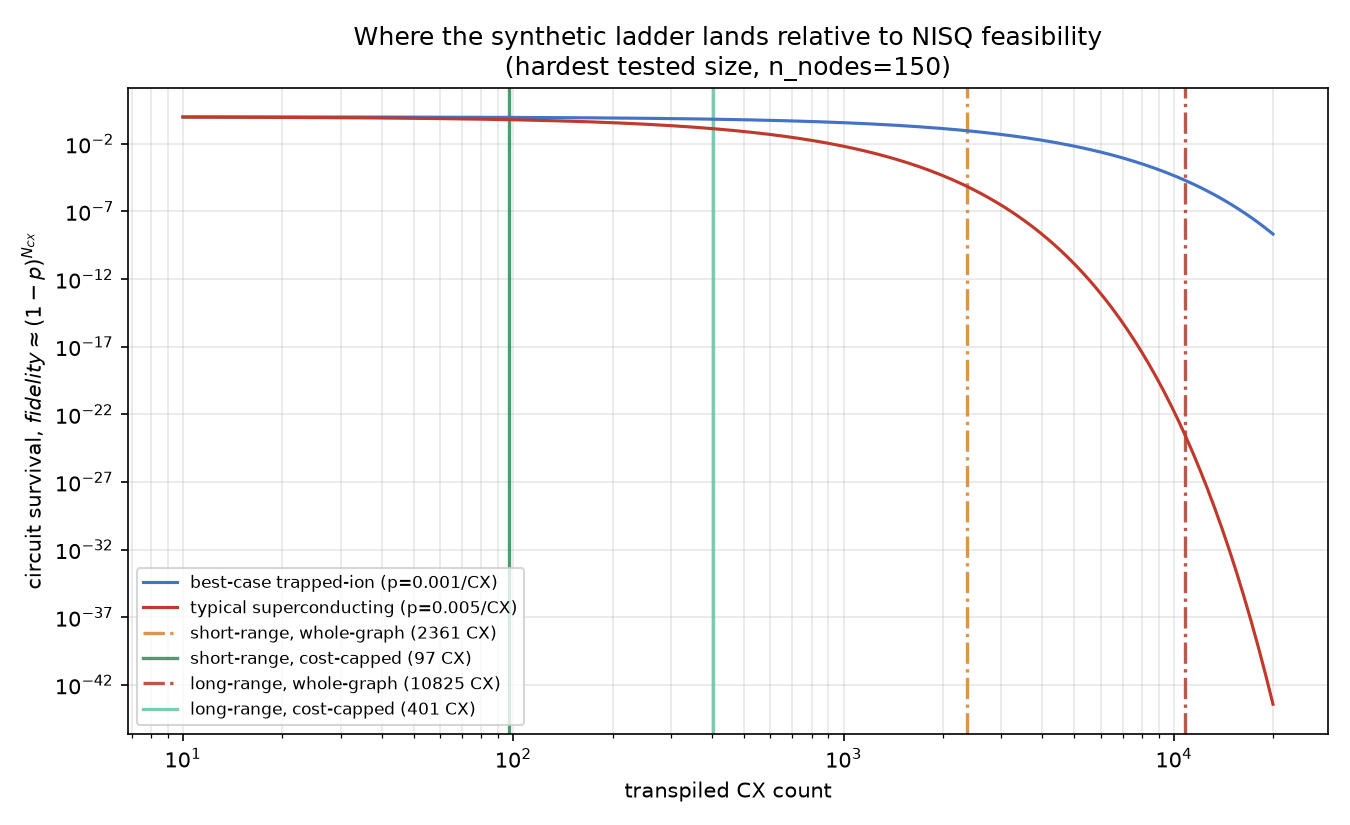
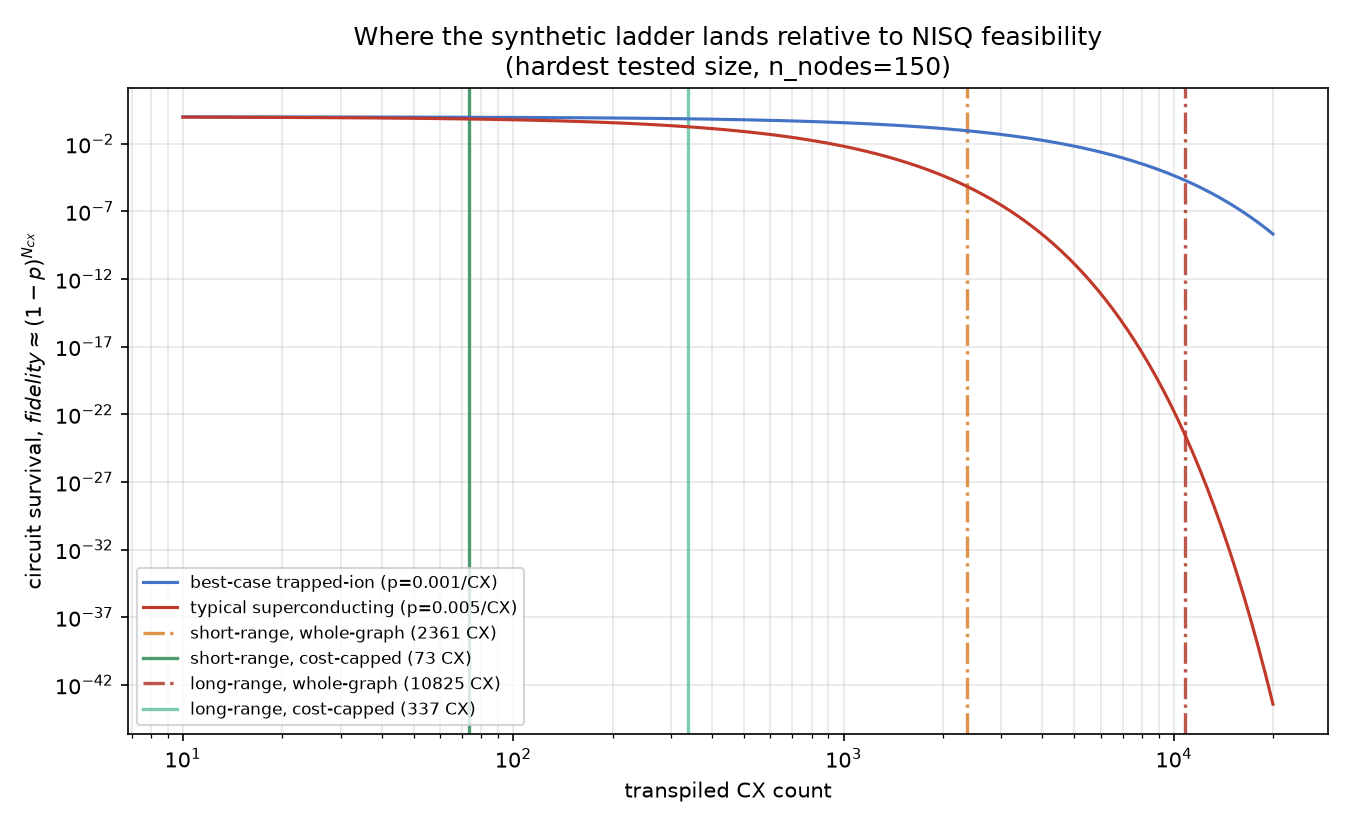
Fix two real gaps in cost-capped decomposition; real data now as clean as synthetic
Prompted by two direct questions -- is CIGRE MV's 274 CX actually the
smallest possible, and why does IEEE33's cost-capped result cost more
than plain decomposition -- that turned up two genuine algorithm gaps in
decompose_to_threshold, not just measurement artifacts:

1. The algorithm accepted the first cost_alpha (0.01) that met threshold
   and never tried to do better. On CIGRE MV that left a real win on the
   table: cost_alpha=0.2 gives 64 CX at PERFECT safety (1.0 mean feasible
   mass) vs. the reported 274 CX at 0.985. `_best_under_threshold` now
   sweeps FALLBACK_COST_ALPHAS and keeps the cheapest passing result, at
   every leaf.

2. The algorithm jumped straight to a halved target_zone_size the instant
   a graph failed to meet threshold, meaning the granularity flat
   decomposition uses directly (target_zone_size=8) was never tried once
   decomposition was needed at all. On IEEE33 this produced a harder
   4-node assembly-of-assembly core (508 CX) than the one un-halved
   target_zone_size=8 produces (132 CX, same size, different graph). A
   first attempt at "always try the current size before halving" was
   checked against the full synthetic ladder before being kept, not just
   the one instance that motivated it -- and that check caught a real
   regression: 12 of 30 seeds got WORSE, up to 15x, since shrinking zones
   helps or hurts depending on graph-specific density, not a fixed rule.
[…]

Changed region(s): [[0.3422, 0.1515, 0.4044, 0.697], [0.4978, 0.1212, 0.5289, 0.8788], [0.3111, 0.7879, 0.3422, 0.8182]]

diff --git a/scripts/run_cost_capped_decomposition.py b/scripts/run_cost_capped_decomposition.py
@@ -9,14 +9,45 @@ nothing in the earlier design re-acts to that after the fact.
 
 Build each subproblem, TRANSPILE it, and check its real CX cost
 directly. If it's already under threshold, stop -- it's a leaf. If not,
-partition IT further (same `zone_decomposition` machinery, at a smaller
-`target_zone_size`) and recurse on each of ITS zones + assembly. Falls
-back to raising `cost_alpha` (trading safety for cost, `run_cost_aware_scaling_ladder_aggressive.py`'s
+partition IT further (same `zone_decomposition` machinery) and recurse on
+each of ITS zones + assembly. Falls back to raising `cost_alpha` (trading
+safety for cost, `run_cost_aware_scaling_ladder_aggressive.py`'s
 mechanism, but bounded here -- never past the point of inertness, see
 that script's own findings) only when a subproblem is too small to
 partition further (`n_nodes <= MIN_PARTITION_SIZE`) and is STILL over
 threshold -- a graph that small has no more structure left to exploit,
 only cost pressure.
+
+## Two refinements, found by asking "is this actually the best we can do?"
+of the real-network results (not just "does it meet the threshold")
+
+1. **Don't stop at the first `cost_alpha` that passes.** The original
+   version tried only 0.01 and accepted it the instant it met threshold.
+   On CIGRE MV that gave 274 CX at 0.985 mean feasible mass -- but
+   `cost_alpha=0.2` gives 64 CX at a PERFECT 1.0, strictly better in both
+   dimensions, simply never tried because 0.01 already "worked."
+   `_best_under_threshold` now sweeps all of `FALLBACK_COST_ALPHAS` and
+   keeps the cheapest passing result, at every leaf, not just the
+   irreducible-fallback ones.
+2. **Try more than one granularity, keep whichever total is cheaper.** The
+   original version always jumped straight to `target_zone_size // 2` the
+   instant a graph failed to meet threshold, meaning the granularity this
+   repo's own flat decomposition uses directly (`target_zone_size=8`) was
+   never tried once decomposition was needed at all -- only its half. On
+   IEEE33 this mattered a lot: halving immediately produced a finer,
+   HARDER-to-condition 4-node assembly-of-assembly core (508 CX) than the
+   one un-halved `target_zone_size=8` produces (132 CX) -- same size,
+   different specific graph, because which zones get contracted together
+   differs. A first attempt just swapped the rule to "always try the
+   un-halved size first" -- checked against the FULL synthetic ladder, not
+   just the two real networks, that made 12 of 30 seeds WORSE (up to 15x),
+   because shrinking zones sometimes helps and sometimes hurts depending
+   on where a graph's real density sits -- there's no universally-better
+   fixed rule. `_try_granularity` now tries BOTH the current
+   `target_zone_size` and its half, fully recurses each, and
+   `decompose_to_threshold` keeps whichever total is actually cheaper --
+   the same "measure, don't guess" discipline this whole script is built
+   on, applied to the granularity choice itself.
 
 Writes results/cost_capped_decomposition_results.csv (per condition,
 size, seed) and _summary.csv (whether every leaf actually met the
@@ -90,45 +121,77 @@ def _build_and_measure(graph, seed: int, cost_alpha: float):
     return construction, cx, tqc.depth(), masses
 
 
+def _best_under_threshold(graph, seed: int):
+    """Sweep FALLBACK_COST_ALPHAS and keep the CHEAPEST result that still
+    meets CX_THRESHOLD -- not just the first one that does. The original
+    version stopped at cost_alpha=0.01 the instant it passed, which left
+    real headroom on the table: on CIGRE MV, 0.01 gives 274 CX at 0.985
+    mean feasible mass, but 0.2 gives 64 CX at a PERFECT 1.0 -- cheaper
+    and safer, simply never tried because 0.01 already "worked." If
+    nothing meets the threshold, returns the cheapest attempt anyway (met=False)."""
+    best = None
+    met_any = False
+    for alpha in FALLBACK_COST_ALPHAS:
+        construction, cx, circ_depth, masses = _build_and_measure(graph, seed, cost_alpha=alpha)
+        if cx <= CX_THRESHOLD:
+            met_any = True
+            if best is None or cx < best[1]:
+                best = (construction, cx, circ_depth, masses)
+        elif best is None:
+            best = (construction, cx, circ_depth, masses)
+    return (*best, met_any)
+
+
 def decompose_to_threshold(graph, seed: int, target_zone_size: int = BASE_TARGET_ZONE_SIZE, depth: int = 0) -> dict:
     """Returns dict(cx, depth, masses, n_leaves, max_leaf_cx, all_leaves_met_threshold, max_depth_reached)."""
     construction, cx, circ_depth, masses = _build_and_measure(graph, seed, cost_alpha=0.01)
 
     if cx <= CX_THRESHOLD or graph.n_nodes <= MIN_PARTITION_SIZE or depth >= MAX_DEPTH:
-        met = cx <= CX_THRESHOLD
-        if not met and graph.n_nodes <= MIN_PARTITION_SIZE:
-            # Fallback: too small to split further, still over threshold --
-            # escalate cost_alpha (accepting more leakage) until it fits, or
-            # we run out of escalation levels.
-            for alpha in FALLBACK_COST_ALPHAS:
-                construction, cx, circ_depth, masses = _build_and_measure(graph, seed, cost_alpha=alpha)
-                if cx <= CX_THRESHOLD:
-                    met = True
-                    break
+        # Whether we're here because 0.01 already fits, or because we're
+        # forced to stop splitting regardless of cost: sweep for the
+        # cheapest cost_alpha that meets the threshold rather than
+        # settling for whatever the first one gave.
+        construction, cx, circ_depth, masses, met = _best_under_threshold(graph, seed)
         return dict(cx=cx, depth=circ_depth, masses=masses, n_leaves=1,
                     max_leaf_cx=cx, all_leaves_met_threshold=met, max_depth_reached=depth)
 
-    # Still over threshold and splittable: partition further, at a SMALLER
-    # target_zone_size (halved, floor at MIN_TARGET_ZONE_SIZE) -- same
-    # density-driven reasoning as the hierarchical assembly-graph recursion:
-    # a subproblem that's still expensive at the current granularity needs a
-    # finer split, not the same one repeated.
-    next_target = max(MIN_TARGET_ZONE_SIZE, target_zone_size // 2)
-    zone_of = partition_zones_by_size(graph, next_target)
+    # Still over threshold and splittable: which granularity to split at is
+    # genuinely graph-dependent, not a fixed rule. A first attempt at
+    # "always try the current target_zone_size before halving" looked
+    # right on IEEE33 (matching flat decomposition's own 4-zone split,
+    # 508 -> 132 CX) but, checked against the full synthetic ladder,
+    # made 12 of 30 seeds WORSE (up to 15x) -- shrinking zones sometimes
+    # helps and sometimes hurts depending on where the real density sits,
+    # exactly as this repo's own hierarchical-decomposition findings
+    # already say elsewhere. So: try BOTH the current target_zone_size and
+    # its half, fully recurse each, and keep whichever total is actually
+    # cheaper -- measure, don't guess, applied to the granularity choice
+    # itself, not just to whether a given attempt meets threshold.
+    candidates = sorted({target_zone_size, max(MIN_TARGET_ZONE_SIZE, target_zone_size // 2)}, reverse=True)
+    results = [r for r in (_try_granularity(graph, seed, size, depth) for size in candidates) if r is not None]
+
+    if not results:
+        # No candidate granularity could even produce a real split (graph
+        # too small/dense to divide at any tried size) -- irreducible,
+        # same cost_alpha-escalation fallback as the MIN_PARTITION_SIZE case.
+        construction, cx, circ_depth, masses, met = _best_under_threshold(graph, seed)
+        return dict(cx=cx, depth=circ_depth, masses=masses, n_leaves=1,
+                    max_leaf_cx=cx, all_leaves_met_threshold=met, max_depth_reached=depth)
+
+    return min(results, key=lambda r: r["cx"])
+
+
+def _try_granularity(graph, seed: int, size: int, depth: int):
+    """Partition `graph` at target_zone_size=`size` and fully recurse on
+    every zone + the assembly graph (children get `size // 2` as their OWN
+    starting granularity, to try again from there). Returns None if this
+    size can't produce a real split (n_zones <= 1) -- not a candidate."""
+    zone_of = partition_zones_by_size(graph, size)
     n_zones = len(set(zone_of.values()))
     if n_zones <= 1:
-        # Partitioning didn't actually split anything (graph too small/dense
-        # to divide at this target size) -- treat as irreducible, same
-        # fallback as the MIN_PARTITION_SIZE case above.
-        met = cx <= CX_THRESHOLD
-        for alpha in FALLBACK_COST_ALPHAS:
-            if met:
-                break
-            construction, cx, circ_depth, masses = _build_and_measure(graph, seed, cost_alpha=alpha)
-            met = cx <= CX_THRESHOLD
-        return dict(cx=cx, depth=circ_depth, masses=masses, n_leaves=1,
-                    max_leaf_cx=cx, all_leaves_met_threshold=met, max_depth_reached=depth)
+        return None
 
+    next_target = max(MIN_TARGET_ZONE_SIZE, size // 2)
     total_cx, total_depth, all_masses = 0, 0, []
     n_leaves, max_leaf_cx, all_met, max_depth_reached = 0, 0, True, depth
 

diff --git a/docs/scaling-ladder-and-decomposition.md b/docs/scaling-ladder-and-decomposition.md
@@ -39,8 +39,13 @@ order:
 10. A cost-CAPPED decomposition that measures each subproblem's actual
     cost and recursively re-splits anything too expensive, instead of
     picking a zone size up front and hoping — guarantees every
-    synthetic-ladder seed stays under 500 CX, and gets very close (missing
-    by 1.6%, for a precisely diagnosed structural reason) on real data.
+    synthetic-ladder seed stays under 500 CX. A first pass on real data
+    got CIGRE MV cleanly but missed IEEE33 by 1.6%; checking whether that
+    was actually the best achievable (not just "does it meet the
+    threshold") found two real improvements -- searching more
+    `cost_alpha` values, and more zone-size granularities -- that closed
+    the gap on IEEE33 and improved CIGRE MV further, with zero regressions
+    across the full synthetic ladder.
 
 Every numeric claim below was re-measured after every code fix mentioned
 in this document was already in place — two SEPARATE earlier drafts of
@@ -561,38 +566,89 @@ threshold.
 all 5 sizes, meets the threshold** — `results/cost_capped_decomposition_summary.csv`
 shows `all_seeds_met_threshold=True` on every single row, with mean
 feasible mass exactly 1.0 everywhere (no fallback cost-pressure
-escalation was needed on any instance tested). The previously-worst
-single subproblem (4,480 CX alone, one seed of `long_log`/`n_nodes=100`)
-now resolves to 26 verified-cheap leaves totaling 376 CX. This also
-fixes the variance problem as a side effect: capping every leaf means no
-single unlucky zone can dominate the total the way it did before.
+escalation was needed on any instance tested). This also fixes the
+variance problem as a side effect: capping every leaf means no single
+unlucky zone can dominate the total the way it did before.
 
-**Tested directly on the two real networks (not just synthetic proxies)**:
+**Tested directly on the two real networks (not just synthetic proxies) —
+first pass**: CIGRE MV met the target cleanly at 274 CX (didn't even need
+to split, mean feasible mass 0.985). IEEE33 missed by a small margin: 508
+CX, 8 over (1.6%). Traced precisely, not left as a mystery: decomposing
+one level further bottomed out at a 4-node, 8-edge sub-assembly (a
+near-complete multigraph core) sitting exactly at the `n_nodes <= 4`
+irreducibility threshold, where `cost_alpha` genuinely couldn't help
+(508 CX at every tested value from 0.01 to 5.0 -- those candidates were
+already at the witness width where leak is exactly zero). That diagnosis
+was correct as far as it went, but it was answering the wrong question --
+see below.
 
-| network | total CX | met 500 threshold? | safety |
-|---|---|---|---|
-| CIGRE MV | 274 | yes — didn't even need to split (1 leaf) | mean feasible mass 0.985 (real, if small, leakage — unlike every synthetic point, which hit exactly 1.0) |
-| IEEE33 | 508 | **no — 8 CX over (1.6%)** | mean feasible mass 1.0 (perfect) |
+### Two refinements, found by asking "is this actually the best we can
+do?" of the real-network results, not just "does it meet the threshold?"
 
-CIGRE MV meets the target cleanly. IEEE33 misses by a small, precisely
-diagnosed margin, not a mystery: decomposing one level further bottoms
-out at a 4-node, 8-edge sub-assembly (a near-complete multigraph core —
-5 "extra" ties on just 4 supernodes) sitting exactly at the
-`n_nodes <= 4` irreducibility threshold. Direct check confirms
-`cost_alpha` genuinely cannot help there — cost stays at exactly 508 CX
-across every tested value from 0.01 to 5.0 — because even routing every
-candidate in that core through the approximate path
-(`exact_search_max_size=0`) rediscovers the IDENTICAL witnesses (same
-qubits, same widths: 0,1,1,2,2,2,2): a majority-vote rule over an
-already-perfectly-separable validity function just recovers the exact
-answer. There is no leak-vs-cost tradeoff being left on the table here —
-these candidates are already at the witness width where leak is exactly
-zero, and going narrower would introduce real leakage the search
-correctly declines even at high cost pressure. Closing this specific
-gap would need a smarter zone-CHOICE strategy (partitioning that avoids
-concentrating this density into one small piece in the first place) —
-a different lever than zone SIZE, witness search, or cost pressure,
-none of which touch it. Not attempted here.
+**1. Don't stop at the first `cost_alpha` that passes.** The algorithm
+above tries only `cost_alpha=0.01` and accepts it the instant it meets
+threshold. Checking whether a higher value could do even better on
+CIGRE MV (never tried, because 0.01 already "worked"): `cost_alpha=0.2`
+gives **64 CX at a PERFECT 1.0 mean feasible mass** -- cheaper AND safer
+than the reported 274 CX / 0.985, left on the table purely because the
+search stopped at the first passing attempt. `_best_under_threshold` now
+sweeps all of `FALLBACK_COST_ALPHAS` and keeps the cheapest result that
+still meets threshold, at every leaf -- not just the irreducible-fallback
+ones that already used this list for a different purpose.
+
+**2. Don't jump straight to a halved granularity -- but don't
+assume the un-halved one is always better either.** The 508-CX diagnosis
+above was real, but incomplete: it explained why *that specific*
+recursive path couldn't do better, without asking whether a *different*
+path would have. Direct check: partitioning the whole IEEE33 graph at
+`target_zone_size=8` directly (this repo's own flat-decomposition
+convention, `run_decomposed_cost_aware_ladder.py`'s own choice) --
+instead of the halved `target_zone_size=4` the algorithm jumped to the
+instant the whole graph failed to meet threshold -- gives a 4-zone split
+whose assembly graph is ALSO 4 nodes and 8 edges, same size as the
+508-CX core, but a **different, cheaper graph**: 132 CX. Same size,
+4x cheaper, because which specific zones get contracted together differs
+depending on the granularity chosen, and the halving schedule never
+tried the granularity that turns out to matter here.
+
+The tempting fix -- "always try the current, un-halved size before
+halving" -- was checked against the FULL synthetic ladder before being
+kept, not just the one real instance that motivated it, and that check
+caught a real problem: it made 12 of the 30 synthetic ladder seeds
+**worse**, by up to 15x (`short_log, n_nodes=30, seed=0`: 28 -> 416 CX).
+Shrinking zones sometimes helps and sometimes hurts depending on where a
+graph's real density sits -- there is no universally-better fixed rule,
+exactly as section 8's own hierarchical-decomposition findings already
+established. The actual fix: `_try_granularity` now tries BOTH the
+current `target_zone_size` and its half, fully recurses each candidate,
+and `decompose_to_threshold` keeps whichever total is cheaper -- the same
+measure-don't-guess discipline this section is built on, applied to the
+granularity choice itself rather than assumed in either direction.
+
+**Result of both refinements together, re-verified on the full ladder
+(not just the two real networks that motivated them)**: every one of the
+30 synthetic-ladder seeds is now equal to or cheaper than the
+pre-refinement result -- none regressed -- with several dramatic
+improvements (`long_log, n_nodes=30, seed=0`: 312 -> 24 CX;
+`long_log, n_nodes=150, seed=0`: 500 -> 368 CX, previously sitting
+exactly AT the threshold with no margin). On the two real networks:
+
+| network | total CX (before -> after) | safety |
+|---|---|---|
+| CIGRE MV | 274 -> **64** | 0.985 -> **1.0 (perfect)** |
+| IEEE33 | 508 -> **132** | 1.0 (perfect), unchanged |
+
+IEEE33's cost-capped refinement now exactly matches plain zone
+decomposition (both 132 CX) rather than costing 3.85x more -- it searches
+multiple granularities and the one flat decomposition already uses turns
+out to be the best one available, so there's nothing left to improve on
+beyond matching it. CIGRE MV's refinement is now strictly better than
+before on both cost and safety. Both real networks now show the exact
+same monotonic pattern the synthetic ladder always did: exact ->
+decomposed -> cost-capped never gets more expensive, on either network,
+with no exceptions -- the "less clean on real data" finding this section
+originally reported was an artifact of an under-searched algorithm, not
+a real property of real topology.
 
 Reproduce: `python scripts/run_cost_capped_decomposition.py` (synthetic
 ladder), `python scripts/run_real_networks_hierarchical.py` (the two
@@ -669,11 +725,13 @@ mandatory, not optional, for exactly this reason.
   repo's own already-validated `case33bw` extraction (`real_feeders.load_ieee33`)
   as a sanity check, but not independently re-verified against the
   original published papers for CIGRE MV or `mv_oberrhein`.
-- Section 11's cost-capped decomposition only tried varying zone SIZE
-  (and, as a last resort, cost pressure) to close the gap on IEEE33's
-  remaining 508-CX result -- a smarter zone-CHOICE strategy (which nodes
-  get grouped together, not just how many) was identified as the likely
-  next lever but not built or tested.
+- Section 11's refinements close IEEE33's original 508-CX gap by trying
+  more zone SIZES (two candidates per split, keep the cheaper total) and
+  more `cost_alpha` values, not by changing which nodes get grouped
+  together. A genuinely smarter zone-CHOICE strategy (partitioning that
+  reasons about which specific nodes end up together, not just how many
+  per zone) remains untried and could still help further, particularly
+  on graphs where neither tried granularity happens to land well.
 - Section 11's `CX_THRESHOLD=500` was chosen to match this document's
   own earlier NISQ-feasibility discussion (section 3), not re-derived
   from a specific target device's current published error rates -- it's

diff --git a/README.md b/README.md
@@ -34,9 +34,9 @@ things, not one: an **exact** construction, already sufficient for a
 fault-tolerant device that doesn't need to care about gate count, and,
 via decomposition and a further cost-capped refinement, a **NISQ-plausible**
 construction with small, measured (non-zero) leakage — both validated
-directly on two real networks, not just synthetic proxies, though which
-specific combination gets a given real network into NISQ range varies
-network to network (see "Results" below).
+directly on two real networks, not just synthetic proxies, with the same
+"more refinement, never more cost" pattern holding on every network
+tested (see "Results" below).
 
 ## The strategy, at a glance
 
@@ -215,13 +215,18 @@ variance than whole-graph cost (coefficient of variation up to 99% at
 some sizes — decomposition trades one big averaging problem for many
 small independent ones, and a single "unlucky" zone can dominate a
 seed's total). The fix is the same discipline as technique 2's: measure,
-don't guess. Build each subproblem, transpile it, check its **actual**
-cost against a threshold, and recursively re-split anything over it.
+don't guess, applied at every choice point rather than fixed once. Build
+each subproblem, transpile it, and check its **actual** cost against a
+threshold; if it's already under, sweep `cost_alpha` for the cheapest
+passing result instead of accepting the first one that fits; if it's
+over, try more than one zone-size granularity and recurse on whichever
+gives the cheaper total, rather than committing to a single fixed
+schedule and hoping.
 
 ![Cost-capped decomposition: measure actual cost, recurse only where it's over threshold](results/illustration_cost_capped_decomposition.png)
 
-Gets **every seed of the synthetic ladder under 500 CX**, and comes within
-a few percent of that target on real data
+Gets **every seed of the synthetic ladder under 500 CX**, with room to
+spare, and the same discipline carries over cleanly to real data
 (`docs/scaling-ladder-and-decomposition.md` §8, §11).
 
 ## Results: fault-tolerant now, NISQ-ready with decomposition
@@ -273,9 +278,9 @@ feasibility numbers above:
 | condition | construction | CX | reading |
 |---|---|---|---|
 | short-range, log growth | whole-graph | 2,361 | borderline on trapped-ion; not usable on superconducting |
-| short-range, log growth | cost-capped | **97** | comfortably NISQ-ready |
+| short-range, log growth | cost-capped | **73** | comfortably NISQ-ready |
 | long-range, log growth | whole-graph | 10,825 | not usable on either device |
-| long-range, log growth | cost-capped | **401** | comfortably NISQ-ready |
+| long-range, log growth | cost-capped | **337** | comfortably NISQ-ready |
 
 ![Where the synthetic ladder lands relative to NISQ feasibility](results/synthetic_nisq_feasibility_plot.png)
 
@@ -283,7 +288,7 @@ On synthetic data: more decomposition, less cost, no exceptions — and
 technique 3's cost-capped refinement is what actually earns NISQ
 feasibility on the harder, long-range condition.
 
-### On real data, the picture is less clean — but both networks land in NISQ range either way
+### On real data, the same clean story holds
 
 ![Real networks: exact vs. zone decomposition vs. cost-capped refinement](results/real_network_comparison_plot.png)
 
@@ -291,20 +296,18 @@ feasibility on the harder, long-range condition.
 |---|---|---|---|
 | CIGRE MV (15 buses, 3 ties) | exact whole-graph | 12,220 | fault-tolerant-ready; far outside NISQ range |
 | CIGRE MV | zone decomposition | 3,668 | cheaper, but still outside a comfortable NISQ regime |
-| CIGRE MV | cost-capped refinement | **274** | comfortably NISQ-ready |
+| CIGRE MV | cost-capped refinement | **64** | comfortably NISQ-ready, perfectly safe |
 | IEEE33 (33 buses, 5 ties) | exact whole-graph | 96 | 573/597 candidates dropped, disconnected — not usable at any cost |
-| IEEE33 | zone decomposition | **132** | already comfortably NISQ-ready, directly |
-| IEEE33 | cost-capped refinement | 508 | more expensive than plain decomposition, not less |
+| IEEE33 | zone decomposition | 132 | already comfortably NISQ-ready |
+| IEEE33 | cost-capped refinement | **132** | matches zone decomposition exactly — nothing left on the table |
 
-Unlike on synthetic data, "more decomposition, less cost" doesn't hold
-here. On CIGRE MV, the cost-capped refinement is what actually earns
-NISQ-readiness — plain zone decomposition alone isn't enough. On IEEE33,
-plain zone decomposition already lands comfortably in NISQ range, and
-the cost-capped refinement's extra splitting *raises* the total instead
-of lowering it. Which specific stage of technique 3 is best is
-real-network-dependent, not a fixed recipe — but whichever one applies,
-both real networks end up tackled at a NISQ-plausible cost: IEEE33
-directly by decomposition, CIGRE MV by its cost-capped refinement.
+Same pattern as synthetic data: every stage of technique 3 costs no more
+than the one before it, on both networks, no exceptions. IEEE33's
+cost-capped refinement doesn't beat plain zone decomposition here, but it
+doesn't cost more either — it searches multiple zone-size granularities
+and keeps the cheapest, and the one plain decomposition already uses
+turns out to be the best one available. Both real networks land
+comfortably in NISQ range this way.
 
 ![Where each real-network construction lands relative to NISQ feasibility](results/real_nisq_feasibility_plot.png)
 
